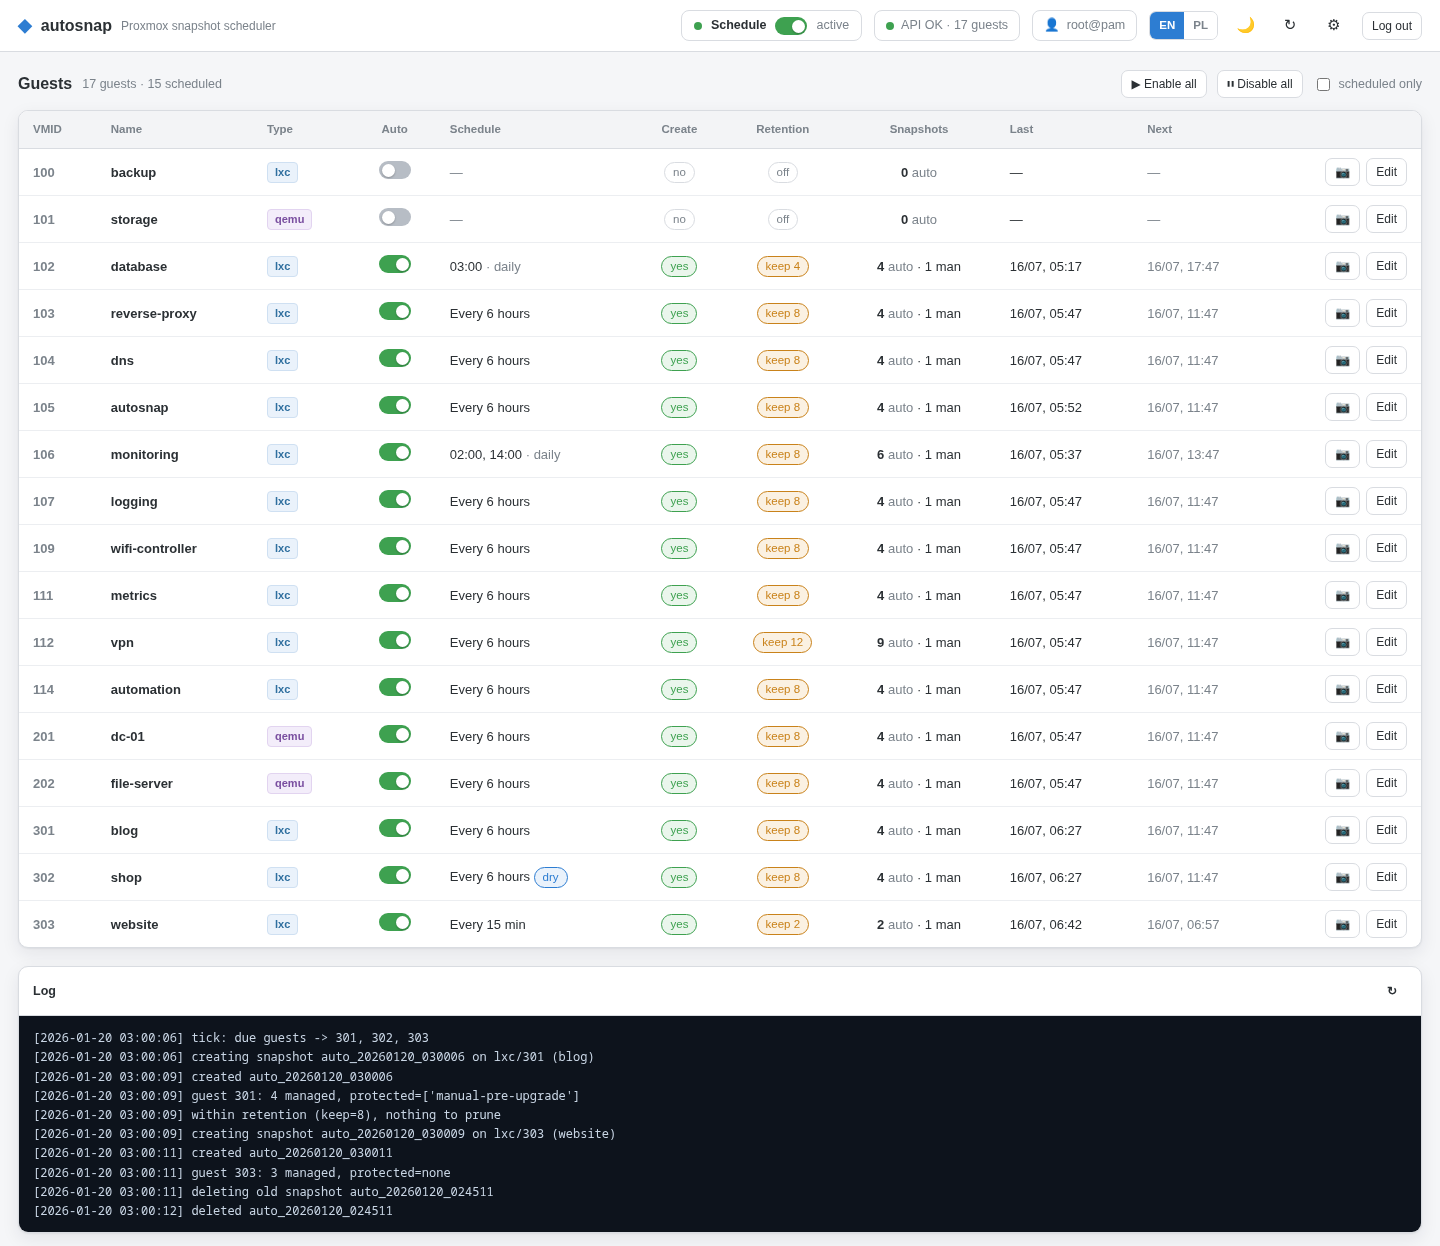
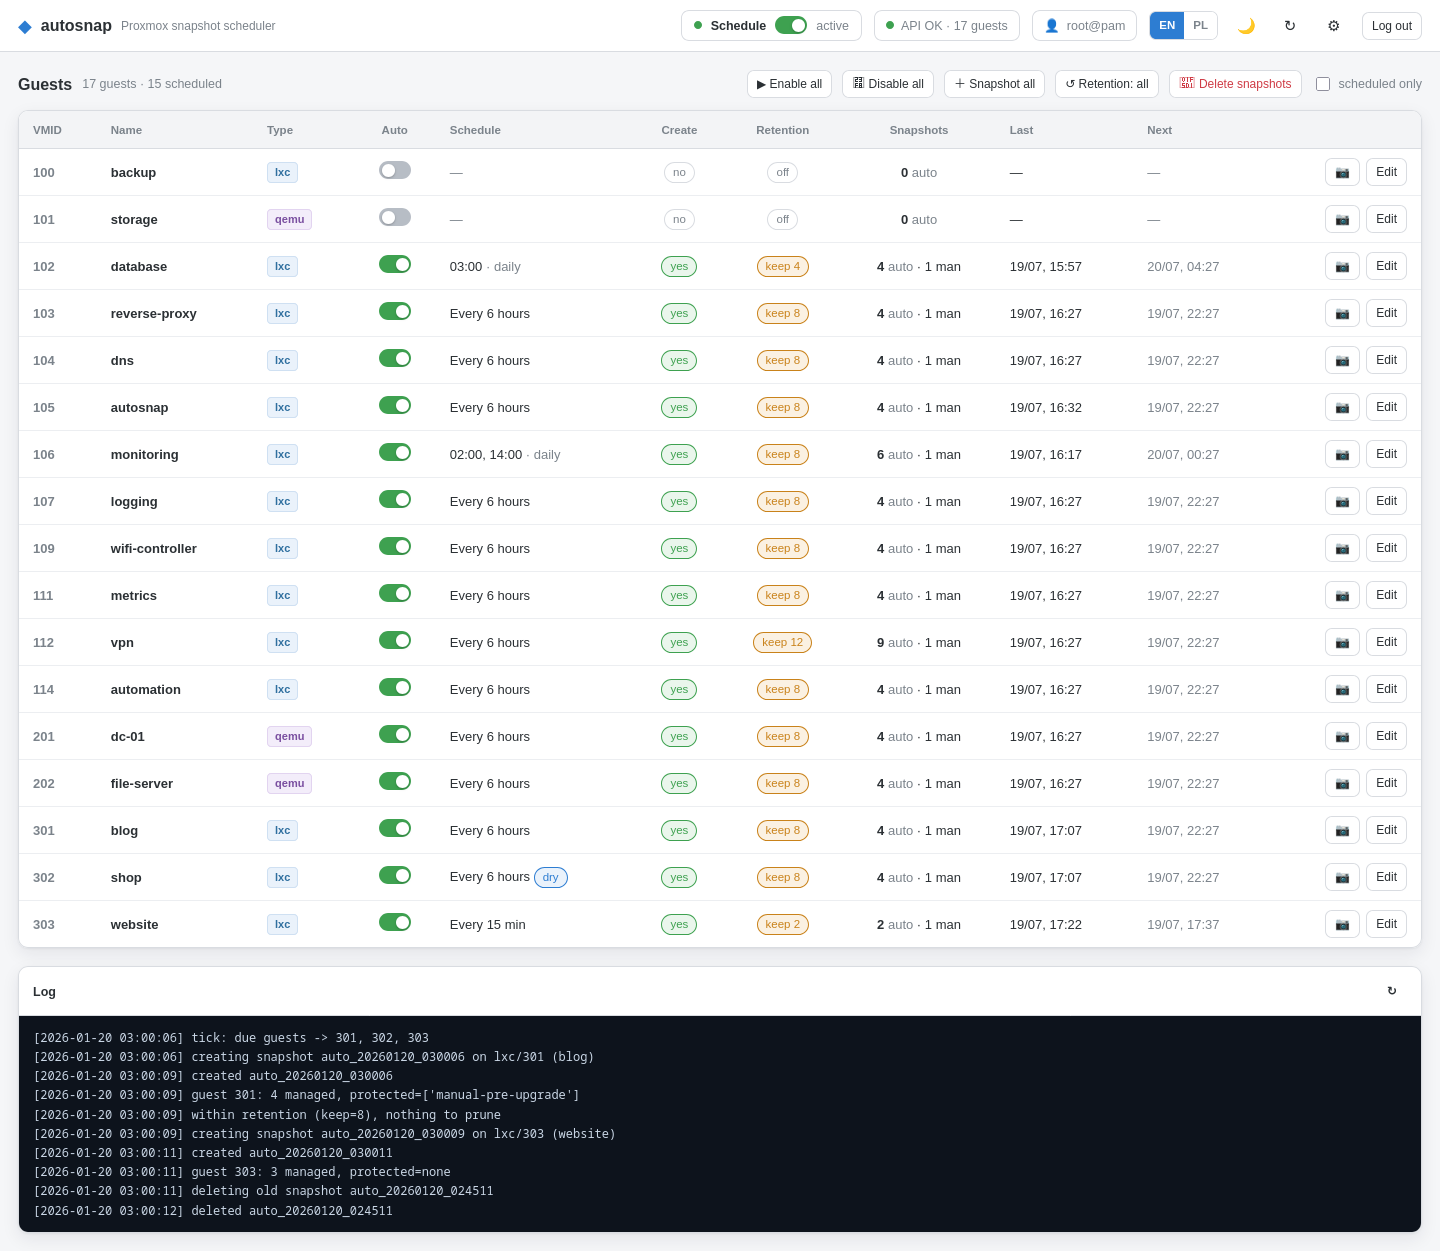
docs: refresh anonymized screenshots for the current UI
Re-rendered dashboard (light + dark) and added an edit-modal shot from the
self-contained demo.html, which uses generic mock data (no real guest names
or domains). Screenshots now show the new fleet-wide toolbar actions
(snapshot all / retention all / delete all). demo.html gained those buttons
too; README references the modal image and lists the new bulk actions.

diff --git a/docs/demo.html b/docs/demo.html
@@ -215,6 +215,9 @@
     <div class="spacer"></div>
     <button class="btn sm" data-i18n="enableAll" onclick="bulk('enable')">▶ Enable all</button>
     <button class="btn sm" data-i18n="disableAll" onclick="bulk('disable')">⏸ Disable all</button>
+    <button class="btn sm" data-i18n="snapAll" onclick="demoAction()">＋ Snapshot all</button>
+    <button class="btn sm" data-i18n="retAll" onclick="demoAction()">↺ Retention: all</button>
+    <button class="btn sm danger" data-i18n="purgeAll" onclick="demoAction()">🗑 Delete snapshots</button>
     <label class="filter"><input type="checkbox" id="onlyOn"> <span data-i18n="onlyScheduled">scheduled only</span></label>
   </div>
 
@@ -335,6 +338,7 @@ const I18N={
   en:{tagline:"Proxmox snapshot scheduler",schedule:"Schedule",active:"active",paused:"paused",
     apiOk:"API OK",apiErr:"API error",refresh:"Refresh",settings:"Settings",
     logout:"Log out",guests:"Guests",enableAll:"▶ Enable all",disableAll:"⏸ Disable all",onlyScheduled:"scheduled only",
+    snapAll:"＋ Snapshot all",retAll:"↺ Retention: all",purgeAll:"🗑 Delete snapshots",
     thVmid:"VMID",thName:"Name",thType:"Type",thAuto:"Auto",thSchedule:"Schedule",thCreate:"Create",thRetention:"Retention",
     thSnapshots:"Snapshots",thLast:"Last",thNext:"Next",loading:"Loading…",none:"None",log:"Log",
     yes:"yes",no:"no",off:"off",keep:"keep",auto:"auto",man:"man",everyN:"every",min:"min",daily:"daily",
@@ -358,6 +362,7 @@ const I18N={
   pl:{tagline:"Harmonogram migawek Proxmoksa",schedule:"Harmonogram",active:"aktywny",paused:"wstrzymany",
     apiOk:"API OK",apiErr:"błąd API",refresh:"Odśwież",settings:"Ustawienia",
     logout:"Wyloguj",guests:"Guesty",enableAll:"▶ Włącz wszystkie",disableAll:"⏸ Wyłącz wszystkie",onlyScheduled:"tylko z harmonogramem",
+    snapAll:"＋ Migawka wszystkim",retAll:"↺ Retencja: wszystkim",purgeAll:"🗑 Usuń migawki",
     thVmid:"VMID",thName:"Nazwa",thType:"Typ",thAuto:"Auto",thSchedule:"Harmonogram",thCreate:"Twórz",thRetention:"Retencja",
     thSnapshots:"Migawki",thLast:"Ostatnio",thNext:"Następnie",loading:"Ładowanie…",none:"Brak",log:"Dziennik",
     yes:"tak",no:"nie",off:"off",keep:"keep",auto:"auto",man:"man",everyN:"co",min:"min",daily:"codziennie",
@@ -391,6 +396,7 @@ async function api(p,o){const r=await fetch(p,o);const j=await r.json().catch(()
 
 function applyTheme(t){document.documentElement.setAttribute('data-theme',t);$('themeBtn').textContent=t==='dark'?'☀️':'🌙';localStorage.setItem('theme',t);}
 function toggleTheme(){applyTheme((document.documentElement.getAttribute('data-theme')==='dark')?'light':'dark');}
+function demoAction(){toast(LANG==='pl'?'Demo — akcja niedostępna w podglądzie':'Demo — action disabled in preview');}
 
 function applyI18n(){
   document.documentElement.lang=LANG;

diff --git a/README.md b/README.md
@@ -20,6 +20,10 @@ hypervisor to break when you update.
 
 </details>
 
+Per‑guest scheduling, retention and dry‑run — one click from the list:
+
+![Edit a guest](docs/edit-modal.png)
+
 ## Features
 
 - **Two schedule modes** per guest: fixed **interval** (every N min/hours) or
@@ -30,7 +34,9 @@ hypervisor to break when you update.
   ever pruned (double‑checked with a regex right before deletion). Manual
   snapshots (`bkp`, `pre-upgrade`, …) are physically incapable of matching.
 - **Dry‑run** per guest — log what *would* happen without touching anything.
-- **Global pause** master switch + **bulk enable/disable all** guests.
+- **Global pause** master switch + fleet‑wide toolbar actions: **enable/disable
+  all**, **snapshot all** scheduled guests, **delete all** auto snapshots, and
+  set **retention for all** at once.
 - **Login with your Proxmox credentials** — validated live against the PVE
   ticket API, nothing stored. Change root's password in Proxmox and it just
   works here too. An **allowlist** (default `root@pam`) prevents privilege